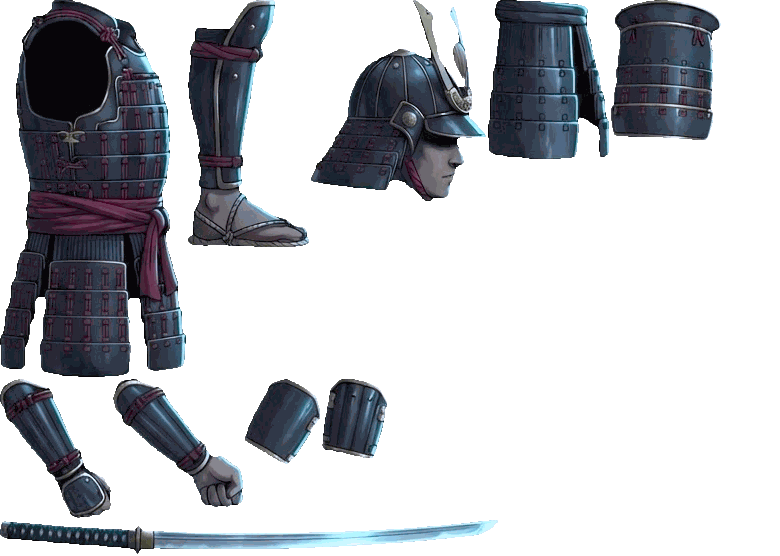
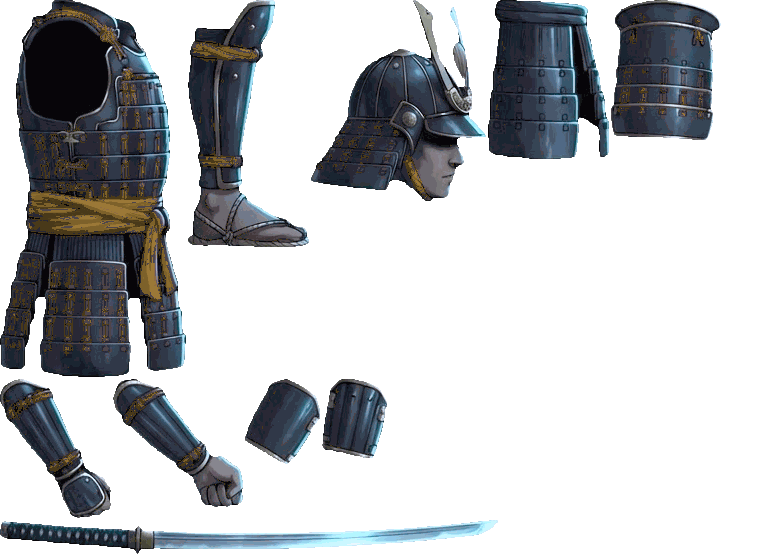
Art pass: readable fights, gold-sashed hero, backlit fighters
- One word callout at a time (FINISHER, PUNISH, PARRY and the rest) instead
  of a stacked pile; higher-ranked ones are not cut off before they can be
  read. At most three damage numbers at once, fanned out.
- Hit combo counter moved from the centre of the fight to the top right and
  made smaller.
- The player's crimson sash and lacing recoloured to gold, to match Aizumi
  in the comics. Same palette PNG format and size as before.
- Soft backlight behind every fighter: cool moonlight behind the player,
  ember red behind enemies, stronger behind a boss. Cached sprites, a few
  drawImage calls a frame.

Claude-Session: https://claude.ai/code/session_01DuYv9YtWKtAxSjLXsjuVQL

diff --git a/index.html b/index.html
@@ -165,8 +165,8 @@ canvas{
 .coin-hud{font-size:clamp(10px,2.2vw,13px);color:#fbbf24;margin-top:5px;}
 
 /* ── COMBO ── */
-#combo{position:absolute;top:50%;left:50%;transform:translate(-50%,-65%);text-align:center;pointer-events:none;transition:opacity .4s;}
-.combo-x{font-family:'Cinzel Decorative',serif;font-size:clamp(36px,10vw,72px);line-height:1;background:linear-gradient(180deg,#fff8e0,#fbbf24,#d97706);-webkit-background-clip:text;background-clip:text;color:transparent;filter:drop-shadow(0 0 20px rgba(251,191,36,.8));}
+#combo{position:absolute;top:clamp(54px,14vh,96px);right:clamp(14px,4vw,40px);left:auto;transform:none;text-align:right;pointer-events:none;transition:opacity .4s;}
+.combo-x{font-family:'Cinzel Decorative',serif;font-size:clamp(28px,6vw,48px);line-height:1;background:linear-gradient(180deg,#fff8e0,#fbbf24,#d97706);-webkit-background-clip:text;background-clip:text;color:transparent;filter:drop-shadow(0 0 20px rgba(251,191,36,.8));}
 .combo-label{font-size:clamp(7px,1.8vw,10px);letter-spacing:.6em;color:rgba(251,191,36,.6);text-transform:uppercase;margin-top:2px;}
 
 /* ── PAUSE BTN ── */
@@ -4234,6 +4234,14 @@ function drawGame(){
     s.life--;
   });
 
+  // BACKLIGHT. On a phone the fighters were small grey shapes on a dark
+  // night and disappeared into it. A soft halo behind each one separates the
+  // figure from the scenery: cool moonlight behind the player, a dim ember
+  // behind enemies, a stronger one behind a boss. One cached sprite per
+  // colour, so this is a handful of drawImage calls a frame.
+  if(P.hp>0||_deathAt)_backlight(P.x+P.w/2,P.y+P.h*.45,58,'pl');
+  enemies.forEach(e=>{if(e.hp>0)_backlight(e.x+e.w/2,e.y+e.h*.45,e.isBoss?96:46,e.isBoss?'boss':'en');});
+
   // PLAYER
   drawPlayer();
 
@@ -6872,7 +6880,40 @@ function saveData(){
 function loadData(){try{const d=JSON.parse(localStorage.getItem('sv5'))||JSON.parse(localStorage.getItem('sv4'));if(d){highestLvl=d.highestLvl||1;styleKey=d.styleKey||'blue';isPrem=d.isPrem||false;coins=d.coins||0;hpLvl=d.hpLvl||1;dmgLvl=d.dmgLvl||1;sprLvl=d.sprLvl||1;dshLvl=d.dshLvl||1;pryLvl=d.pryLvl||1;if(d.diff&&DIFF[d.diff])diff=d.diff;}}catch(e){}}
 
 function spawnP(x,y,c,n){for(let i=0;i<n;i++)particles.push({x,y,vx:(Math.random()-.5)*13,vy:(Math.random()-.5)*13,life:38+Math.random()*14,color:c,size:Math.random()*5+1});}
-function addFloat(x,y,v,c){floats.push({x,y,text:typeof v==='number'?(v>0?'+'+v:String(v)):v,color:c,life:55,maxLife:55,size:typeof v==='string'?11:17});}
+// One word callout at a time. In a fast combo FINISHER, PUNISH, PARRY, Side
+// Cut and the coin multiplier all fired within a few frames and stacked into
+// an unreadable pile on top of the fight. Now a new callout replaces the old
+// one unless the old one outranks it and has not had time to be read yet.
+// Damage numbers stay, but at most three at once, fanned out sideways.
+const _FLOAT_RANK={'PHASE II':6,'SAVED':6,'⚡ FINISHER!':5,'PUNISH!':4,'KI PARRY':4,'PARRY!':3,'Side Cut!':2,'BLOCKED':2,'KI NOT READY':2};
+function _floatRank(t){return _FLOAT_RANK[t]||(/COIN$/.test(t)?1:2);}
+const _BL={pl:'150,185,255,.55',en:'255,90,70,.30',boss:'255,60,50,.42'},_blC={};
+function _backlight(x,y,r,k){
+  let c=_blC[k];
+  if(!c){
+    c=document.createElement('canvas');c.width=c.height=128;
+    const t=c.getContext('2d'),g=t.createRadialGradient(64,64,0,64,64,64),[R,G,B,A]=_BL[k].split(',');
+    g.addColorStop(0,`rgba(${R},${G},${B},${A})`);g.addColorStop(.45,`rgba(${R},${G},${B},${A*.45})`);g.addColorStop(1,`rgba(${R},${G},${B},0)`);
+    t.fillStyle=g;t.fillRect(0,0,128,128);_blC[k]=c;
+  }
+  gx.drawImage(c,x-r,y-r*1.15,r*2,r*2.3);
+}
+function addFloat(x,y,v,c){
+  const text=typeof v==='number'?(v>0?'+'+v:String(v)):v;
+  const word=typeof v==='string'&&!/^[-+]?\d+$/.test(v);
+  if(word){
+    const r=_floatRank(text);
+    const cur=floats.find(f=>f.word);
+    if(cur&&cur.rank>r&&cur.maxLife-cur.life<22)return;
+    floats=floats.filter(f=>!f.word);
+    floats.push({x,y:y-8,text,color:c,life:62,maxLife:62,size:r>=4?17:14,word:true,rank:r});
+    return;
+  }
+  const nums=floats.filter(f=>!f.word);
+  if(nums.length>=3)floats.splice(floats.indexOf(nums[0]),1);
+  const off=(nums.length%3-1)*14;
+  floats.push({x:x+off,y,text,color:c,life:55,maxLife:55,size:15});
+}
 function shake(i){if(CFG.shake)shk=i;}
 function ri(a,b){return!(b.x>a.x+a.w||b.x+b.w<a.x||b.y>a.y+a.h||b.y+b.h<a.y);}
 // Contact damage needs a REAL overlap, not a grazing edge. `ri` returns true
